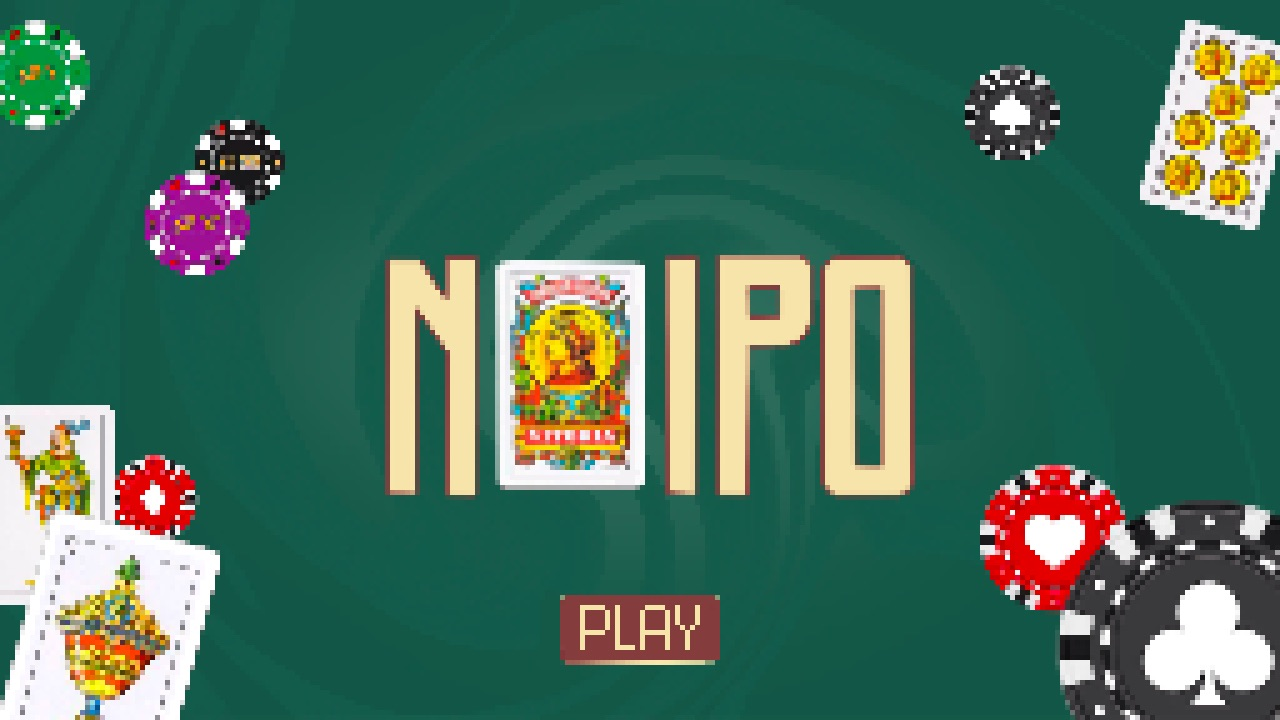
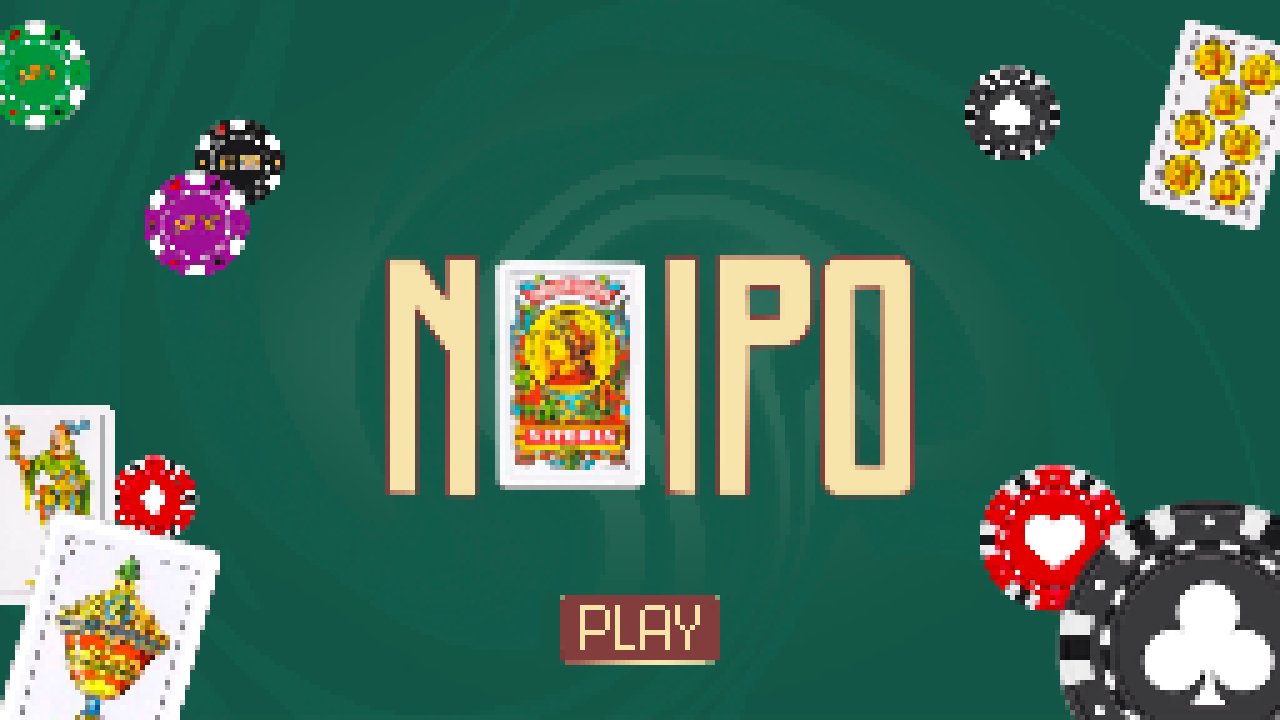
Mejorado calidad imágenes y añadido Juego.py

diff --git a/temporal.py b/temporal.py
@@ -1,76 +1,43 @@
-# from Clases.jugador import Jugador
-from Clases.carta import Carta
-from Clases.boton import Boton
 import pygame
 import sys
 
-# Inicializar pygame
+# Inicializar Pygame
 pygame.init()
 
-# VARIABLES
-ancho_pantalla = 1280
-alto_pantalla = 720
-pagina_actual = 0       # Páginas: 0: Menú principal, 1: Juego, 2: Salir
+# Configurar ventana
+ANCHO, ALTO = 800, 600
+ventana = pygame.display.set_mode((ANCHO, ALTO))
+pygame.display.set_caption("Demo de transparencia")
 
-# Configuración de la ventana
-screen = pygame.display.set_mode((ancho_pantalla, alto_pantalla))
-pygame.display.set_caption("Naipo")
+# Cargar imágenes
+fondo = pygame.image.load("Graficos/Menú_Juego.jpg") #.convert()  # Fondo sin transparencia
+superior = pygame.image.load("Graficos/Control_Salida.PNG").convert_alpha()  # Con canal alpha
+
+# Escalar imágenes al tamaño de la ventana (opcional)
+# fondo = pygame.transform.scale(fondo, (0,0))
+# superior = pygame.transform.scale(superior, (0,0))
+
+# # Crear una versión translúcida del sprite superior
+# superior_translucida = superior.copy()
+# superior_translucida.set_alpha(255)  # 0 = invisible, 255 = opaco
+
+# Posición del sprite superior
+# x, y = (ANCHO - superior.get_width()) // 2, (ALTO - superior.get_height()) // 2
+
+# Bucle principal
 clock = pygame.time.Clock()
-
-# --- IMÁGENES DE FONDO ---
-menu_principal = pygame.image.load("Graficos/Menu_principal.png")
-menu_juego = pygame.image.load("Graficos/Menú_Juego.jpg")
-menu_salir = pygame.image.load("Graficos/Control_Salida.PNG")
-
-# --- BOTONES ---
-boton_play = Boton("Graficos/play.jpg", (559, 595))
-boton_continuar = Boton("Graficos/Boton_Cont.PNG", (266, 52))
-
-# --- CARTAS (solo para testeo visual) ---
-cartas = []
-pos_inicial_x = 535
-for i in range(8):
-    cartas.append(Carta(i + 1, "o"))
-    cartas[i].asignar_posicion(pos_inicial_x + 75 * i, 500)
-
-# --- BUCLE PRINCIPAL ---
 while True:
-    eventos = pygame.event.get()
-
-    for event in eventos:
-        if event.type == pygame.QUIT:
+    for evento in pygame.event.get():
+        if evento.type == pygame.QUIT:
             pygame.quit()
             sys.exit()
 
-        # --- Detectar tecla ESC solo en la página de juego ---
-        if pagina_actual == 1 and event.type == pygame.KEYDOWN and event.key == pygame.K_ESCAPE:
-            pagina_actual = 2  # Ir al menú de salida
+    # Dibujar fondo
+    ventana.blit(fondo, (0, 0))
 
-    # --- PÁGINA PRINCIPAL ---
-    if pagina_actual == 0:
-        screen.blit(menu_principal, (0, 0))
-        boton_play.dibujar(screen)
+    # Dibujar imagen translúcida encima
+    ventana.blit(superior, (0, 0))
 
-        if boton_play.detectar_click(eventos):
-            print("¡Has pulsado PLAY!")
-            pagina_actual = 1
-
-    # --- PÁGINA DEL JUEGO ---
-    elif pagina_actual == 1:
-        screen.blit(menu_juego, (0, 0))
-
-        # Mostrar cartas (solo test)
-        for carta in cartas:
-            carta.mostrar(screen)
-
-    # --- PÁGINA DE SALIDA ---
-    elif pagina_actual == 2:
-        screen.blit(menu_salir, (550, 0))
-        boton_continuar.dibujar(screen)
-
-        if boton_continuar.detectar_click(eventos):
-            pagina_actual = 0
-
-    # --- ACTUALIZAR PANTALLA ---
+    # Actualizar pantalla
     pygame.display.flip()
     clock.tick(60)

diff --git a/main.py b/main.py
@@ -19,7 +19,7 @@ clock = pygame.time.Clock()
 
 # Imágenes de fondo
 menu_principal = pygame.image.load("Graficos/Menu_principal.png")
-menu_juego = pygame.image.load("Graficos/Menú_Juego.jpg")
+menu_juego = pygame.image.load("Graficos/Menú_Juego.png")
 menu_salir = pygame.image.load("Graficos/Control_Salida.png").convert_alpha()
 
 # Clases Boton
@@ -69,7 +69,7 @@ while True:
 
     # --- Página de salida ---
     elif pagina_actual == 2:
-        screen.blit(menu_salir, (screen_width/2 - menu_salir.get_width()/2,0))
+        screen.blit(menu_salir, (0,0))
         boton_continuar.dibujar(screen)
 
         if boton_continuar.detectar_click(eventos):

diff --git a/Clases/juego.py b/Clases/juego.py
@@ -1,0 +1,3 @@
+class Juego:
+    def __init__(self):
+        pass
